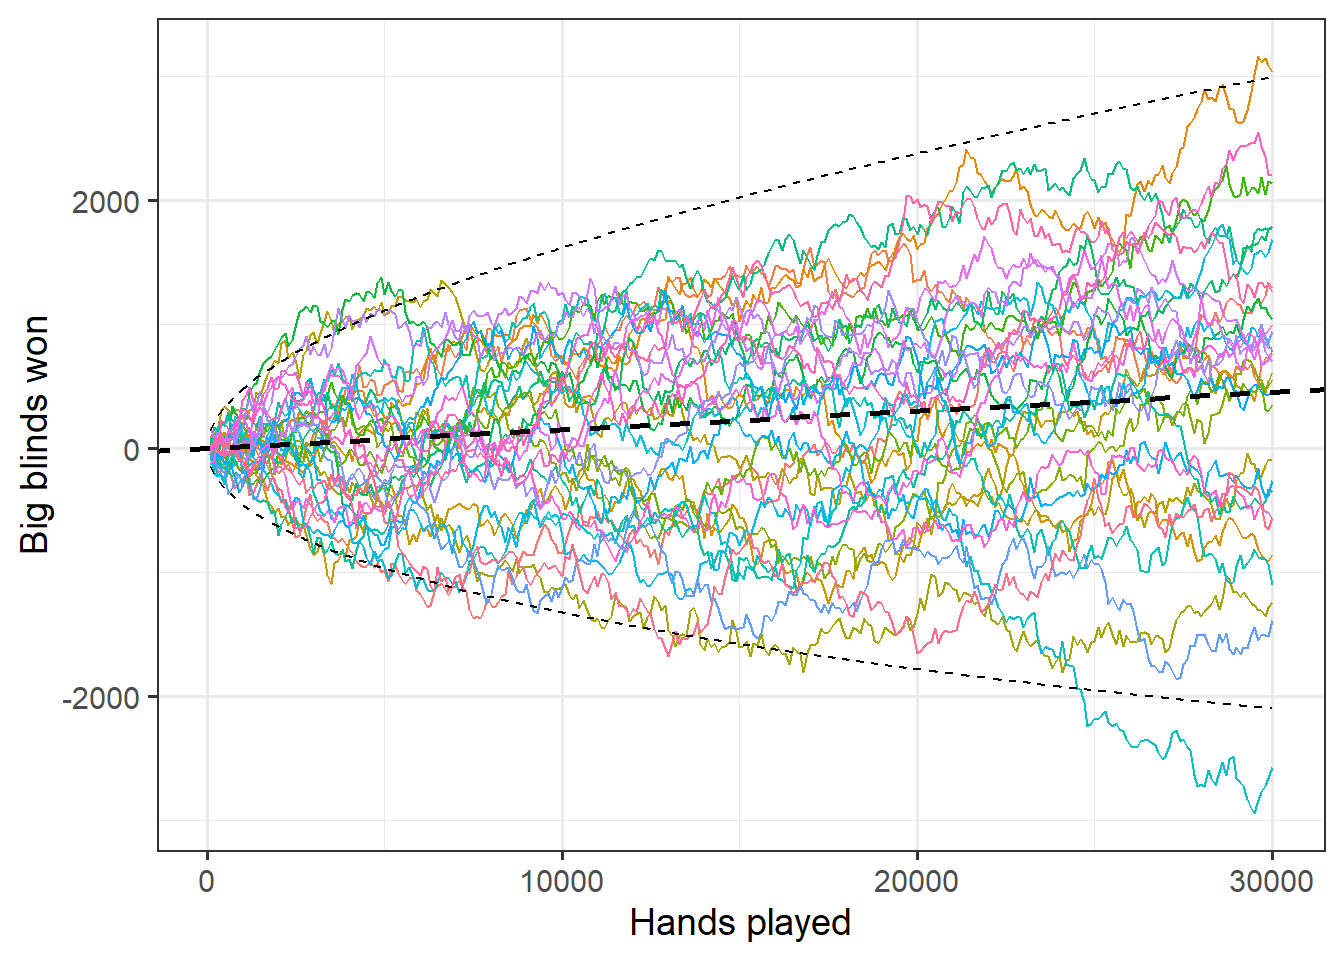
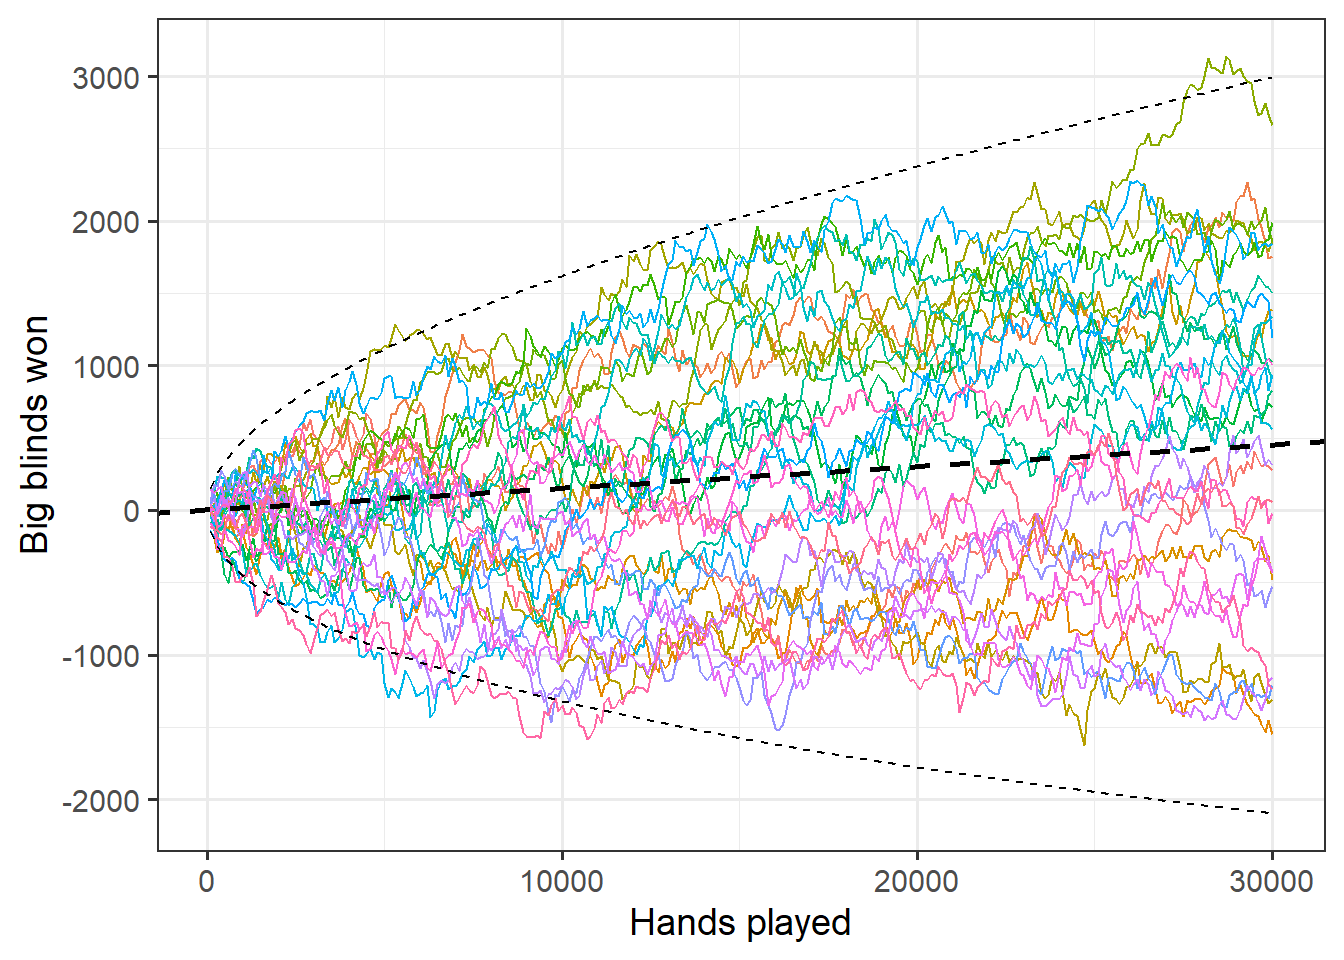
update

diff --git a/poker_simulator_animation.html b/poker_simulator_animation.html
@@ -332,13 +332,14 @@ win rate, which is the average amount of profit (or loss) over 100 poker
 hands played. The standard deviation (SD) of a player’s win rate can be
 more than 20 times higher than the win rate itself. By assuming the
 players have somewhat low win rates (e.g., 1.5 big blinds per 100 hands
-with a SD of 75), we observe the situation below. Outcome variability is
-clearly a highly significant factor masking a player’s “true” skill as
-defined by the expected long-run winnings (dashed line). This means that
-while poker differs from games of pure chance (e.g. roulette) or games
-of skill and chance where long-term profit is unattainable
-(e.g. blackjack), outcome variability still makes it challenging to
-empirically estimate the actually skill level of individual players.</p>
+with a SD of 75), we observe the situation below over the course of
+30,000 hands. Outcome variability is clearly a highly significant factor
+masking a player’s “true” skill as defined by the expected long-run
+winnings (dashed line). This means that while poker differs from games
+of pure chance (e.g. roulette) or games of skill and chance where
+long-term profit is unattainable (e.g. blackjack), outcome variability
+still makes it challenging to empirically estimate the actually skill
+level of individual players.</p>
 <pre class="r"><code>variance_simulator &lt;- function(hands, winrate, SD, players) {
   
   simulations = data.frame(nrow = 0)
@@ -378,10 +379,10 @@ empirically estimate the actually skill level of individual players.</p>
 
 variance_simulator(300, 1.5, 75, 30)</code></pre>
 <p><img src="poker_simulator_animation_files/figure-html/unnamed-chunk-2-1.png" width="672" /></p>
-<p>In the animation below, we’re simulating 500,000 poker hands for
-three equally skilled players who are all expected to win 1.5 big blinds
-per 100 hands (with an SD of 75). As can be seen, the individual paths
-to profit (or loss) over the course of 500,000 hands are typically very
+<p>In the animation below, we’re simulating 50,000 poker hands for three
+equally skilled players who are all expected to win 1.5 big blinds per
+100 hands (with an SD of 75). As can be seen, the individual paths to
+profit (or loss) over the course of 50,000 hands are typically very
 different for these three players, despite them being mathematically
 equally skilled.</p>
 <p>The dashed curved lines represent the 2.5% and 97.5% percentiles (the
